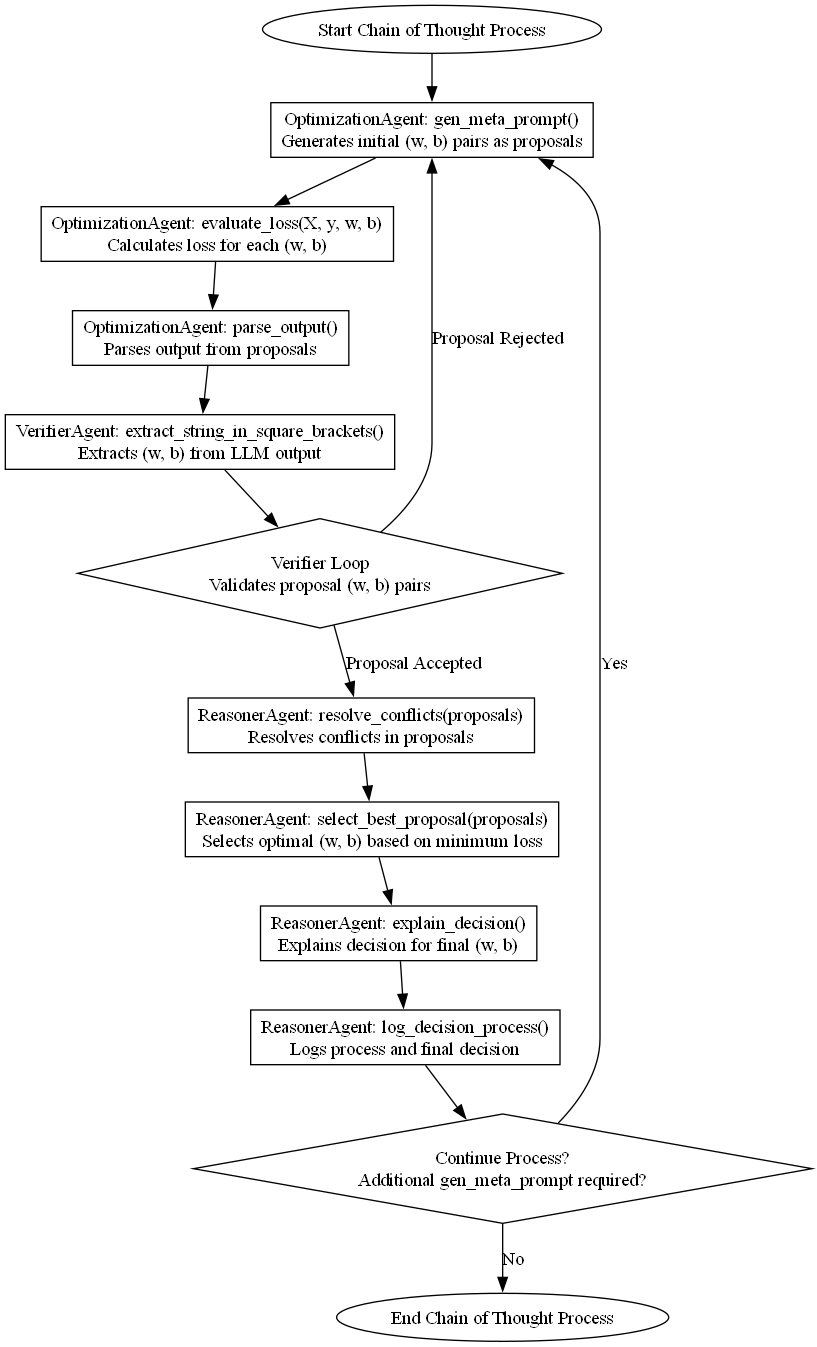
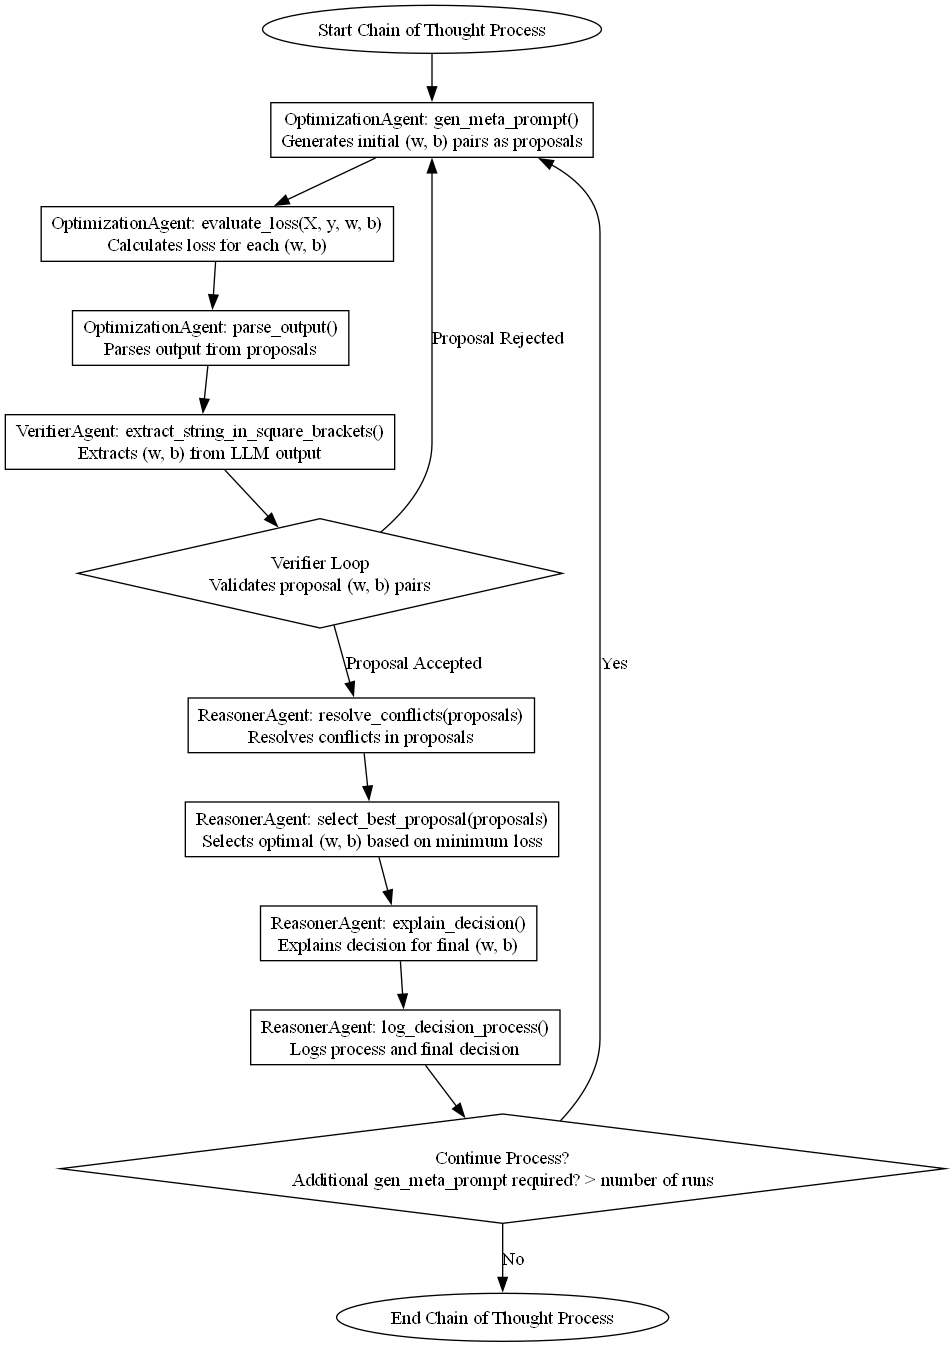
update chart

diff --git a/Files/Diagrams/flowchart.py b/Files/Diagrams/flowchart.py
@@ -15,7 +15,7 @@ flowchart_cot_opro.node('SelectBest', 'ReasonerAgent: select_best_proposal(propo
 flowchart_cot_opro.node('Explain', 'ReasonerAgent: explain_decision()\nExplains decision for final (w, b)', shape='box')
 flowchart_cot_opro.node('LogProcess', 'ReasonerAgent: log_decision_process()\nLogs process and final decision', shape='box')
 
-flowchart_cot_opro.node('CheckLoop', 'Continue Process?\nAdditional gen_meta_prompt required?', shape='diamond')
+flowchart_cot_opro.node('CheckLoop', 'Continue Process?\nAdditional gen_meta_prompt required? > number of runs', shape='diamond')
 flowchart_cot_opro.node('End', 'End Chain of Thought Process', shape='ellipse')
 
 flowchart_cot_opro.edge('Start', 'GenProposal')
